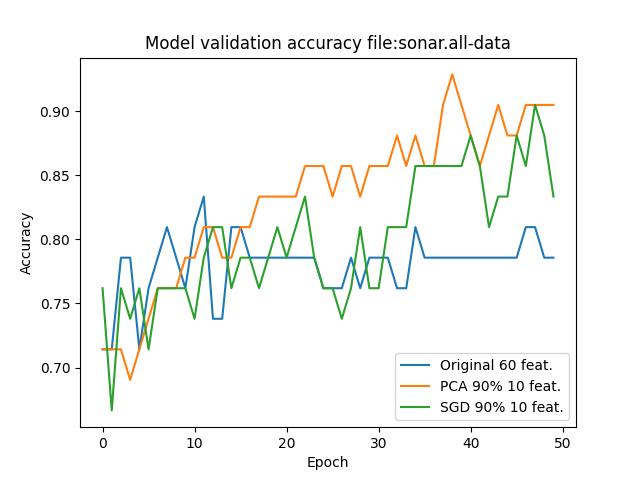
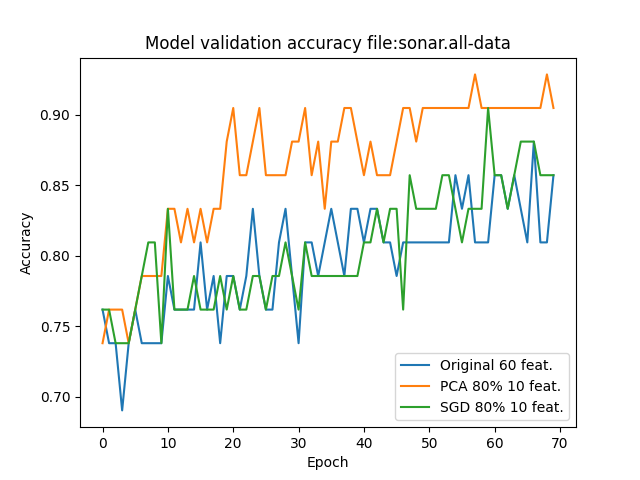
Figures Update

diff --git a/dimensionality.py b/dimensionality.py
@@ -12,9 +12,9 @@ import matplotlib.pyplot as plt
 import seaborn as sns
 
 #Sonar data()
-file = 'sonar.all-data'
+#file = 'sonar.all-data'
 #breast cancer data
-#file = 'breast-cancer.csv'
+file = 'breast-cancer.csv'
 
 #Load the data
 df = pd.read_csv('./data/' + str(file))
@@ -95,7 +95,7 @@ def create_train_model(features, x_train, y_train, x_test, y_test, epochs):
 
 
 Threshold = 0.8 #Variance kept in dimensionality reduction
-epochs = 50
+epochs = 70
 val_split = 0.2
 
 # No dimensionality reductionor
@@ -168,8 +168,7 @@ plt.plot(history_2.history['accuracy'])
 plt.title('Model Training accuracy file:' + file )
 plt.ylabel('Accuracy')
 plt.xlabel('Epoch')
-#plt.legend(['Original', 'PCA 90%'], loc='upper left')
-plt.legend([str('Original ' + str(orig_feat) + ' feat.') , str('PCA 90% ' + str(dim_PCA) + ' feat.'), str('SGD 90% ' + str(dim_sgd) + ' feat.' )], loc='lower right')
+plt.legend([str('Original ' + str(orig_feat) + ' feat.') , str('PCA 80% ' + str(dim_PCA) + ' feat.'), str('SGD 80% ' + str(dim_sgd) + ' feat.' )], loc='lower right')
 plt.show()
 
 
@@ -179,7 +178,7 @@ plt.plot(history_2.history['val_accuracy'])
 plt.title('Model validation accuracy file:' + file)
 plt.ylabel('Accuracy')
 plt.xlabel('Epoch')
-plt.legend([str('Original ' + str(orig_feat) + ' feat.') , str('PCA 90% ' + str(dim_PCA) + ' feat.'), str('SGD 90% ' + str(dim_sgd) + ' feat.' )], loc='lower right')
+plt.legend([str('Original ' + str(orig_feat) + ' feat.') , str('PCA 80% ' + str(dim_PCA) + ' feat.'), str('SGD 80% ' + str(dim_sgd) + ' feat.' )], loc='lower right')
 plt.show()
 
 
